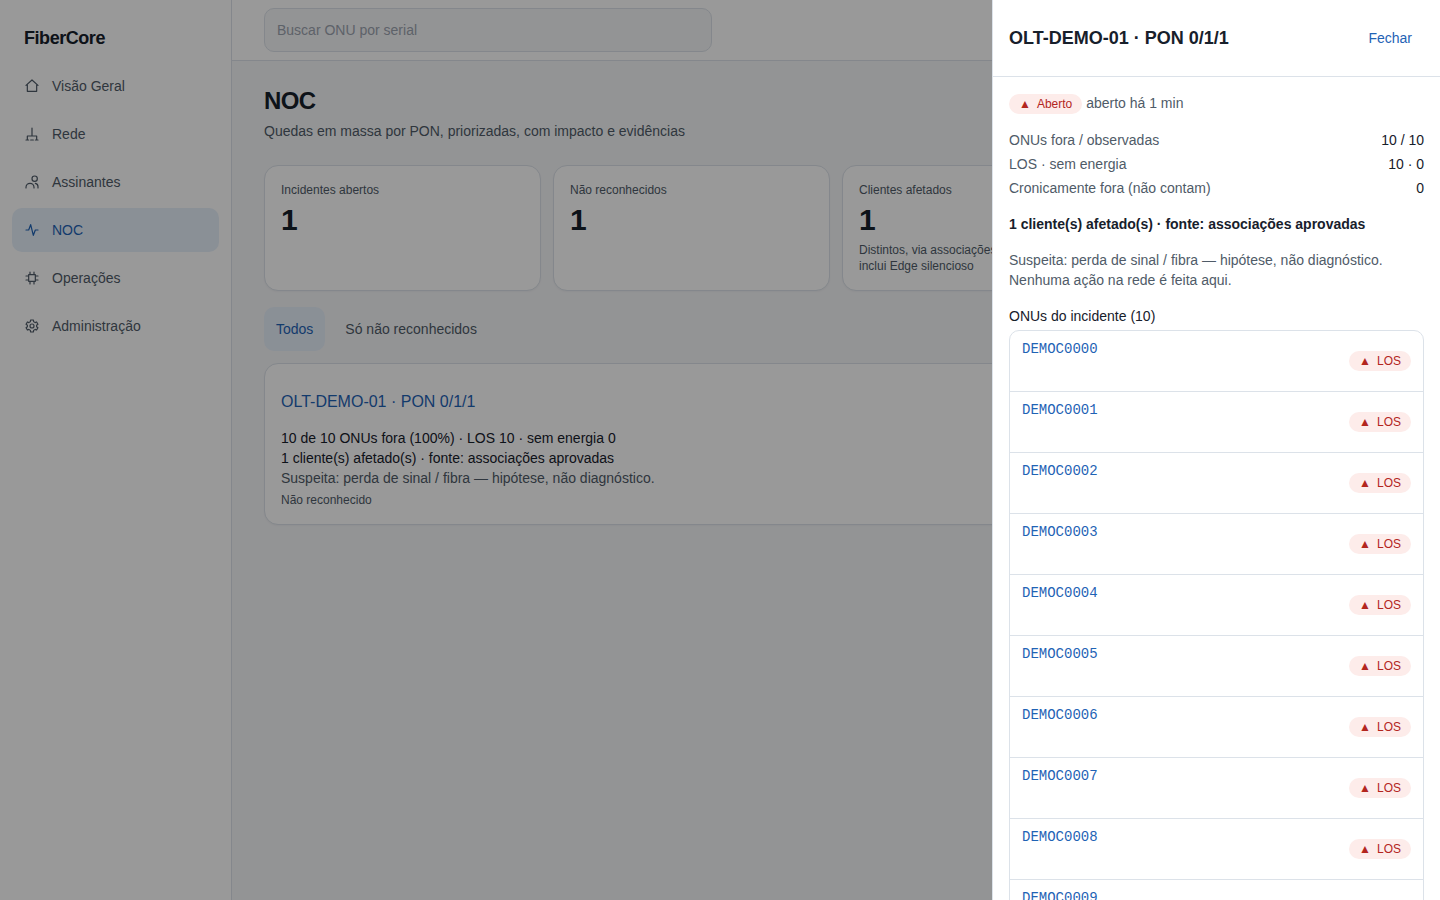
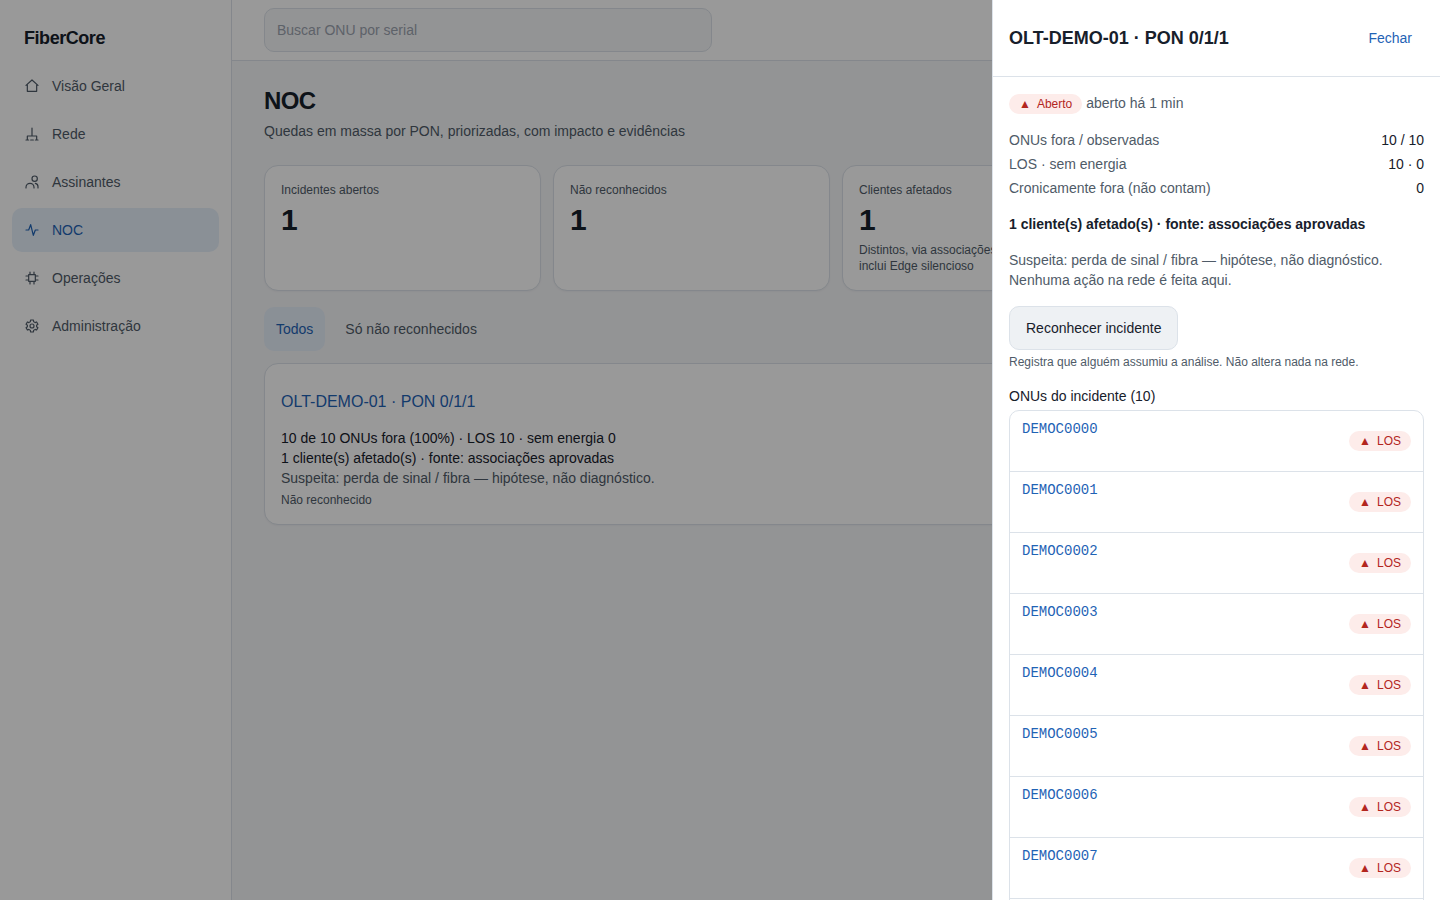
feat(web): reconhecer incidente pelo painel do NOC e buscar cliente por nome no ⌘K
- BFF POST /bff/incidents/[id]/ack (same-origin, só ack; 403/409 tratados) e botão no painel; fila e indicador acompanham
- BFF GET /bff/search/customers (3+ letras, id e nome apenas) usado pela busca global
- E2E: noc-ack-and-search.spec.ts em projeto posterior (reconhecer muda o estado do seed); how-tos atualizados

Claude-Session: https://claude.ai/code/session_01G65B8a86N96ZoCrjd2Ad9b

diff --git a/apps/web/src/components/IncidentQueue.tsx b/apps/web/src/components/IncidentQueue.tsx
@@ -1,6 +1,7 @@
 "use client";
 
 import Link from "next/link";
+import { useRouter } from "next/navigation";
 import { useRef, useState } from "react";
 import { EntityDetailDrawer } from "@/components/EntityDetailDrawer";
 import { StatusPill } from "@/components/ui";
@@ -18,11 +19,26 @@ export function ImpactText({ i }: { i: Impact }) {
 type Load = { state: "idle" } | { state: "loading" } | { state: "error"; msg: string } | { state: "ok"; d: IncidentDetail };
 
 /** Fila de incidentes na ordem de prioridade do servidor; o incidente abre em painel lateral (sem trocar de tela). Só leitura. */
+type Ack = { state: "idle" } | { state: "sending" } | { state: "error"; msg: string };
+
 export function IncidentQueue({ incidents }: { incidents: Incident[] }) {
+  const router = useRouter();
   const [sel, setSel] = useState<Incident | null>(null);
+  const [acked, setAcked] = useState<Set<string>>(new Set());
+  const [ack, setAck] = useState<Ack>({ state: "idle" });
   const [load, setLoad] = useState<Load>({ state: "idle" });
   const trigger = useRef<HTMLElement | null>(null);
-  const close = () => { setSel(null); setLoad({ state: "idle" }); trigger.current?.focus(); };
+  const close = () => { setSel(null); setLoad({ state: "idle" }); setAck({ state: "idle" }); trigger.current?.focus(); };
+  const isAcked = (i: Incident) => i.acknowledged || acked.has(i.id);
+  const reconhecer = async (id: string) => {
+    setAck({ state: "sending" });
+    try {
+      const r = await fetch(`/bff/incidents/${id}/ack`, { method: "POST", cache: "no-store" });
+      if (r.ok || r.status === 409) { // 409: outra pessoa já reconheceu; o estado final é o mesmo
+        setAcked((s) => new Set(s).add(id)); setAck({ state: "idle" }); router.refresh(); // atualiza os indicadores do servidor
+      } else setAck({ state: "error", msg: r.status === 403 ? "Seu papel não permite reconhecer incidentes." : "Não foi possível reconhecer o incidente. Tente de novo." });
+    } catch { setAck({ state: "error", msg: "Não foi possível reconhecer o incidente. Tente de novo." }); }
+  };
   const open = async (i: Incident, el: HTMLElement) => {
     trigger.current = el; setSel(i); setLoad({ state: "loading" });
     try {
@@ -43,7 +59,7 @@ export function IncidentQueue({ incidents }: { incidents: Incident[] }) {
             <p className="text-sm" data-testid="incident-impact"><ImpactText i={i.impact} /></p>
             <p className="text-sm text-muted">{cause[i.suspected_cause] ?? cause.unknown} — hipótese, não diagnóstico.</p>
             {i.edge_silent && <p className="mt-1 text-sm text-warn">Edge silencioso: este é o último estado conhecido, não confirmado agora.</p>}
-            <p className="mt-1 text-xs text-muted">{i.acknowledged ? "Reconhecido" : "Não reconhecido"}</p>
+            <p className="mt-1 text-xs text-muted">{isAcked(i) ? "Reconhecido" : "Não reconhecido"}</p>
           </li>
         ))}
       </ul>
@@ -61,6 +77,18 @@ export function IncidentQueue({ incidents }: { incidents: Incident[] }) {
             </dl>
             <p data-testid="drawer-impact"><strong><ImpactText i={load.d.impact} /></strong></p>
             <p className="text-muted">{cause[load.d.suspected_cause] ?? cause.unknown} — hipótese, não diagnóstico. Nenhuma ação na rede é feita aqui.</p>
+            {load.d.status === "open" && (
+              <div data-testid="incident-ack">
+                {isAcked(load.d) ? <p className="font-medium" data-testid="ack-done">Reconhecido</p> : (
+                  <button type="button" disabled={ack.state === "sending"} onClick={() => reconhecer(load.d.id)} data-testid="ack-button"
+                    className="min-h-touch rounded-btn border border-line bg-surface-2 px-4 font-medium hover:bg-accent-soft disabled:opacity-60">
+                    {ack.state === "sending" ? "Reconhecendo…" : "Reconhecer incidente"}
+                  </button>
+                )}
+                <p className="mt-1 text-xs text-muted">Registra que alguém assumiu a análise. Não altera nada na rede.</p>
+                {ack.state === "error" && <p role="alert" className="mt-1 text-sm text-danger">{ack.msg}</p>}
+              </div>
+            )}
             <div>
               <h3 className="mb-1 font-medium">ONUs do incidente ({load.d.members_total})</h3>
               {load.d.members.length === 0 ? <p className="text-muted">Sem ONUs registradas neste incidente.</p> : (

diff --git a/apps/web/src/components/CommandPalette.tsx b/apps/web/src/components/CommandPalette.tsx
@@ -11,12 +11,13 @@ const PAGES: Hit[] = [
   { kind: "Tela", label: "Central de Ajuda", href: "/ajuda" },
 ];
 
-/** Busca global (⌘/Ctrl+K): telas e atalho para buscar ONU por serial. Sem chamada de API própria. */
+/** Busca global (⌘/Ctrl+K): telas, atalho para buscar ONU por serial e clientes por nome (a partir de 3 letras, pelo BFF; só id e nome). */
 export function CommandPalette() {
   const ref = useRef<HTMLDialogElement>(null);
   const [q, setQ] = useState("");
   const [idx, setIdx] = useState(0);
   const router = useRouter();
+  const [people, setPeople] = useState<Hit[]>([]);
 
   const open = () => { setQ(""); setIdx(0); ref.current?.showModal(); };
   useEffect(() => {
@@ -25,11 +26,26 @@ export function CommandPalette() {
     return () => window.removeEventListener("keydown", h);
   }, []);
 
+  useEffect(() => {
+    const s = q.trim();
+    setPeople([]); // um resultado de outra digitação nunca fica na lista
+    if (s.length < 3) return;
+    const ctl = new AbortController();
+    const t = setTimeout(async () => { // espera o usuário parar de digitar: uma consulta auditada por pausa, não por tecla
+      try {
+        const r = await fetch(`/bff/search/customers?q=${encodeURIComponent(s)}`, { signal: ctl.signal, cache: "no-store" });
+        const d = (await r.json()) as { items?: { id: string; display_name: string }[] };
+        setPeople((d.items ?? []).map((c) => ({ kind: "Cliente", label: c.display_name, href: `/assinantes/${c.id}` })));
+      } catch { /* cancelada ou indisponível: a busca de telas/ONU continua */ }
+    }, 300);
+    return () => { clearTimeout(t); ctl.abort(); };
+  }, [q]);
+
   const hits = useMemo<Hit[]>(() => {
     const s = q.trim();
     const pages = PAGES.filter((p) => p.label.toLowerCase().includes(s.toLowerCase()));
-    return s ? [{ kind: "ONU", label: `Buscar ONU “${s}”`, href: `/rede?serial=${encodeURIComponent(s)}` }, ...pages] : pages;
-  }, [q]);
+    return s ? [{ kind: "ONU", label: `Buscar ONU “${s}”`, href: `/rede?serial=${encodeURIComponent(s)}` }, ...people, ...pages] : pages;
+  }, [q, people]);
   const go = (h?: Hit) => { if (!h) return; ref.current?.close(); router.push(h.href); };
 
   return (
@@ -41,7 +57,7 @@ export function CommandPalette() {
       <dialog ref={ref} aria-label="Busca global" className="m-0 mx-auto mt-[12vh] w-[calc(100%-32px)] max-w-xl rounded-modal border border-line bg-surface p-0 text-text shadow-2xl backdrop:bg-black/30">
         <div className="flex items-center gap-2 border-b border-line px-4">
           <Icon name="search" className="size-4 text-muted" />
-          <input autoFocus value={q} aria-label="Buscar telas ou ONU por serial" placeholder="Digite um serial ou o nome de uma tela" role="combobox" aria-expanded="true" aria-controls="cp-list"
+          <input autoFocus value={q} aria-label="Buscar telas, ONU por serial ou cliente por nome" placeholder="Digite um serial, um nome de cliente ou de tela" role="combobox" aria-expanded="true" aria-controls="cp-list"
             aria-activedescendant={hits[idx] ? `cp-${idx}` : undefined}
             onChange={(e) => { setQ(e.target.value); setIdx(0); }}
             onKeyDown={(e) => {

diff --git a/apps/web/e2e/noc-ack-and-search.spec.ts b/apps/web/e2e/noc-ack-and-search.spec.ts
@@ -1,0 +1,45 @@
+import AxeBuilder from "@axe-core/playwright";
+import { expect, test } from "@playwright/test";
+import { login } from "./helpers";
+
+// Este arquivo roda DEPOIS de app/help-screenshots (ordem alfabética, 1 worker): reconhecer o incidente demo muda o estado que aqueles usam.
+
+test("reconhecer incidente pelo painel: botão some, fila e indicador acompanham, sem ação na rede", async ({ page }) => {
+  await login(page);
+  await page.goto("/noc");
+  const kpi = page.getByTestId("noc-kpis");
+  await expect(kpi).toContainText("Não reconhecidos");
+  const before = Number((await kpi.getByTestId("kpi-Não reconhecidos").innerText()).match(/\d+/)![0]);
+  expect(before).toBeGreaterThan(0);
+  const first = page.getByTestId("incident-item").first();
+  await expect(first).toContainText("Não reconhecido");
+  await first.getByTestId("incident-open").click();
+  const box = page.getByTestId("incident-ack");
+  await expect(box).toContainText("Não altera nada na rede");
+  const res = await new AxeBuilder({ page: page as never }).withTags(["wcag2a", "wcag2aa", "wcag21aa", "wcag22aa"]).analyze();
+  expect(res.violations.filter((v) => v.impact === "serious" || v.impact === "critical").map((v) => v.id)).toEqual([]);
+  await page.getByTestId("ack-button").click();
+  await expect(page.getByTestId("ack-done")).toBeVisible();
+  await expect(page.getByTestId("ack-button")).toHaveCount(0);
+  await page.keyboard.press("Escape");
+  await expect(first).toContainText("Reconhecido");
+  await expect(first).not.toContainText("Não reconhecido");
+  await expect.poll(async () => Number((await kpi.getByTestId("kpi-Não reconhecidos").innerText()).match(/\d+/)![0])).toBe(before - 1); // indicador do servidor
+  await page.reload();                                                                              // persistiu no servidor
+  await expect(page.getByTestId("incident-item").first()).toContainText("Reconhecido");
+});
+
+test("busca global acha cliente por nome (a partir de 3 letras) e abre a Visão 360", async ({ page }) => {
+  await login(page);
+  await page.getByLabel("Abrir busca global").click();
+  const input = page.getByLabel("Buscar telas, ONU por serial ou cliente por nome");
+  await input.fill("Cl");
+  await expect(page.getByRole("option", { name: /Cliente Demo/ })).toHaveCount(0);   // menos de 3 letras: nenhuma consulta de cliente
+  await input.fill("Cliente Demo Um");
+  const hit = page.getByRole("option", { name: /^Cliente\s*Cliente Demo Um/ });
+  await expect(hit).toBeVisible();
+  await expect(page.getByRole("listbox")).not.toContainText("1234");                  // só nome: nada de documento
+  await hit.click();
+  await expect(page).toHaveURL(/\/assinantes\/[0-9a-f-]{36}$/);
+  await expect(page.getByRole("heading", { level: 1 })).toContainText("Cliente Demo Um");
+});

diff --git a/apps/web/src/app/bff/search/customers/route.ts b/apps/web/src/app/bff/search/customers/route.ts
@@ -1,0 +1,13 @@
+import { NextResponse } from "next/server";
+import { apiSafe } from "@/lib/api";
+import type { CustomerRow } from "@/lib/types";
+
+/** Busca de cliente por nome para a busca global (⌘K). Devolve só id e nome: sem documento, contrato ou contato. O acesso é auditado pela API. */
+export async function GET(req: Request) {
+  const q = (new URL(req.url).searchParams.get("q") ?? "").trim().slice(0, 64);
+  if (q.length < 3) return NextResponse.json({ items: [] }, { headers: { "cache-control": "no-store" } });
+  const r = await apiSafe<CustomerRow[]>(`/v1/customers?limit=5&q=${encodeURIComponent(q)}`);
+  if (r.data) return NextResponse.json({ items: r.data.map((c) => ({ id: c.id, display_name: c.display_name })) }, { headers: { "cache-control": "no-store" } });
+  // sem permissão ou API fora: a busca global segue funcionando só com telas e ONU
+  return NextResponse.json({ items: [], unavailable: true }, { status: r.status === 403 ? 200 : 502, headers: { "cache-control": "no-store" } });
+}

diff --git a/apps/web/src/app/bff/incidents/[id]/ack/route.ts b/apps/web/src/app/bff/incidents/[id]/ack/route.ts
@@ -1,0 +1,15 @@
+import { NextResponse } from "next/server";
+import { apiPost } from "@/lib/api";
+import { sameOrigin } from "@/lib/csrf";
+
+const UUID = /^[0-9a-f]{8}-[0-9a-f]{4}-[0-9a-f]{4}-[0-9a-f]{4}-[0-9a-f]{12}$/i;
+
+/** Reconhece um incidente (grava só a ciência de uma pessoa, auditada; não faz nada na rede). Same-origin; o token HttpOnly não chega ao navegador. */
+export async function POST(req: Request, { params }: { params: Promise<{ id: string }> }) {
+  if (!sameOrigin(req)) return NextResponse.json({ detail: "forbidden" }, { status: 403 });
+  const { id } = await params;
+  if (!UUID.test(id)) return NextResponse.json({ detail: "not found" }, { status: 404 });
+  const r = await apiPost(`/v1/incidents/${id}/ack`);
+  const status = [200, 401, 403, 404, 409].includes(r.status) ? r.status : 502;
+  return NextResponse.json({ ok: r.status === 200 }, { status, headers: { "cache-control": "no-store" } });
+}

diff --git a/apps/web/playwright.config.ts b/apps/web/playwright.config.ts
@@ -18,5 +18,7 @@ export default defineConfig({
   projects: [
     { name: "capturas", testMatch: /help-screenshots\.spec\.ts/, use: { browserName: "chromium" } },
     { name: "funcional", testMatch: /app\.spec\.ts/, dependencies: ["capturas"], use: { browserName: "chromium" } },
+    // Por último: reconhecer o incidente demo muda o estado que os testes acima assumem (não reconhecido).
+    { name: "posteriores", testMatch: /noc-ack-and-search\.spec\.ts/, dependencies: ["funcional"], use: { browserName: "chromium" } },
   ],
 });

diff --git a/docs/help/how-to/noc/acompanhar-incidente.md b/docs/help/how-to/noc/acompanhar-incidente.md
@@ -23,7 +23,8 @@ ui_route: "/noc"
 4. Em cada incidente, leia o título (OLT e PON), as evidências (ONUs fora, LOS, falta de energia) e o **impacto**: "N cliente(s) afetado(s) · fonte: associações aprovadas".
 5. Clique no título para abrir o **painel lateral** com as evidências, o impacto e as ONUs do incidente (**Abrir** leva à ONU 360). **Esc** ou **Fechar** volta para a fila, sem trocar de tela.
 6. Leia a **causa suspeita**: é uma hipótese, não um diagnóstico.
-7. Se aparecer o aviso **Edge silencioso**, o estado exibido é o último conhecido e não está confirmado agora.
+7. Para assumir a análise, clique em **Reconhecer incidente** no painel lateral. Isso só registra, com seu nome e a hora (na auditoria), que alguém assumiu; **não altera nada na rede**. A fila passa a mostrar **Reconhecido** e o indicador **Não reconhecidos** diminui. Se outra pessoa reconhecer antes, a tela só mostra o estado final. Sem a permissão `incidents:ack`, a tela avisa que seu papel não permite.
+8. Se aparecer o aviso **Edge silencioso**, o estado exibido é o último conhecido e não está confirmado agora.
 
 ![Tela em desktop 1440×900 — Como acompanhar um incidente no NOC](../../assets/noc/acompanhar-incidente/desktop.png)
 
@@ -53,5 +54,5 @@ Incidentes abertos aparecem primeiro, com o estado, a contagem de evidências e 
 
 - Build/commit: 1d9fb94 (árvore de trabalho do PR)
 - Browser/viewport: Chromium; desktop 1440×900 e mobile 390×844
-- Caso de teste E2E: help-screenshots.spec.ts › noc/acompanhar-incidente; app.spec.ts › dados defasados
+- Caso de teste E2E: help-screenshots.spec.ts › noc/acompanhar-incidente; app.spec.ts › dados defasados; noc-ack-and-search.spec.ts › reconhecer incidente pelo painel
 - Dados: fictícios (seed `scripts/seed_demo.py`); sem informações reais de clientes

diff --git a/docs/help/how-to/assinantes/visao-360.md b/docs/help/how-to/assinantes/visao-360.md
@@ -18,7 +18,7 @@ ui_route: "/assinantes/[id]"
 ## Passo a passo
 
 1. Abra **Assinantes**. Com o recurso ligado, aparece a lista **Clientes · visão 360** (20 por página; use a caixa de busca para filtrar pelo nome, sem diferenciar maiúsculas).
-2. Clique no cliente (**Ver 360 →**).
+2. Clique no cliente (**Ver 360 →**). Atalho: em qualquer tela, **Ctrl/⌘ + K**, digite pelo menos 3 letras do nome e escolha o item **Cliente**. A busca mostra só o nome e cada consulta fica na auditoria.
 3. Leia o **Estado geral** no topo: **Completo**, **Parcial**, **Defasado** ou **Desconhecido**, com a frase que explica o motivo.
 4. Se o cliente tiver mais de uma ONU, escolha a ONU pelo serial.
 5. Navegue pelas abas: **Conexão**, **Óptica**, **Roteador (CPE)**, **Cliente** e **Ações**. Cada bloco mostra a **fonte**, a **idade** do dado e se está **Atualizado** ou **defasado**.
